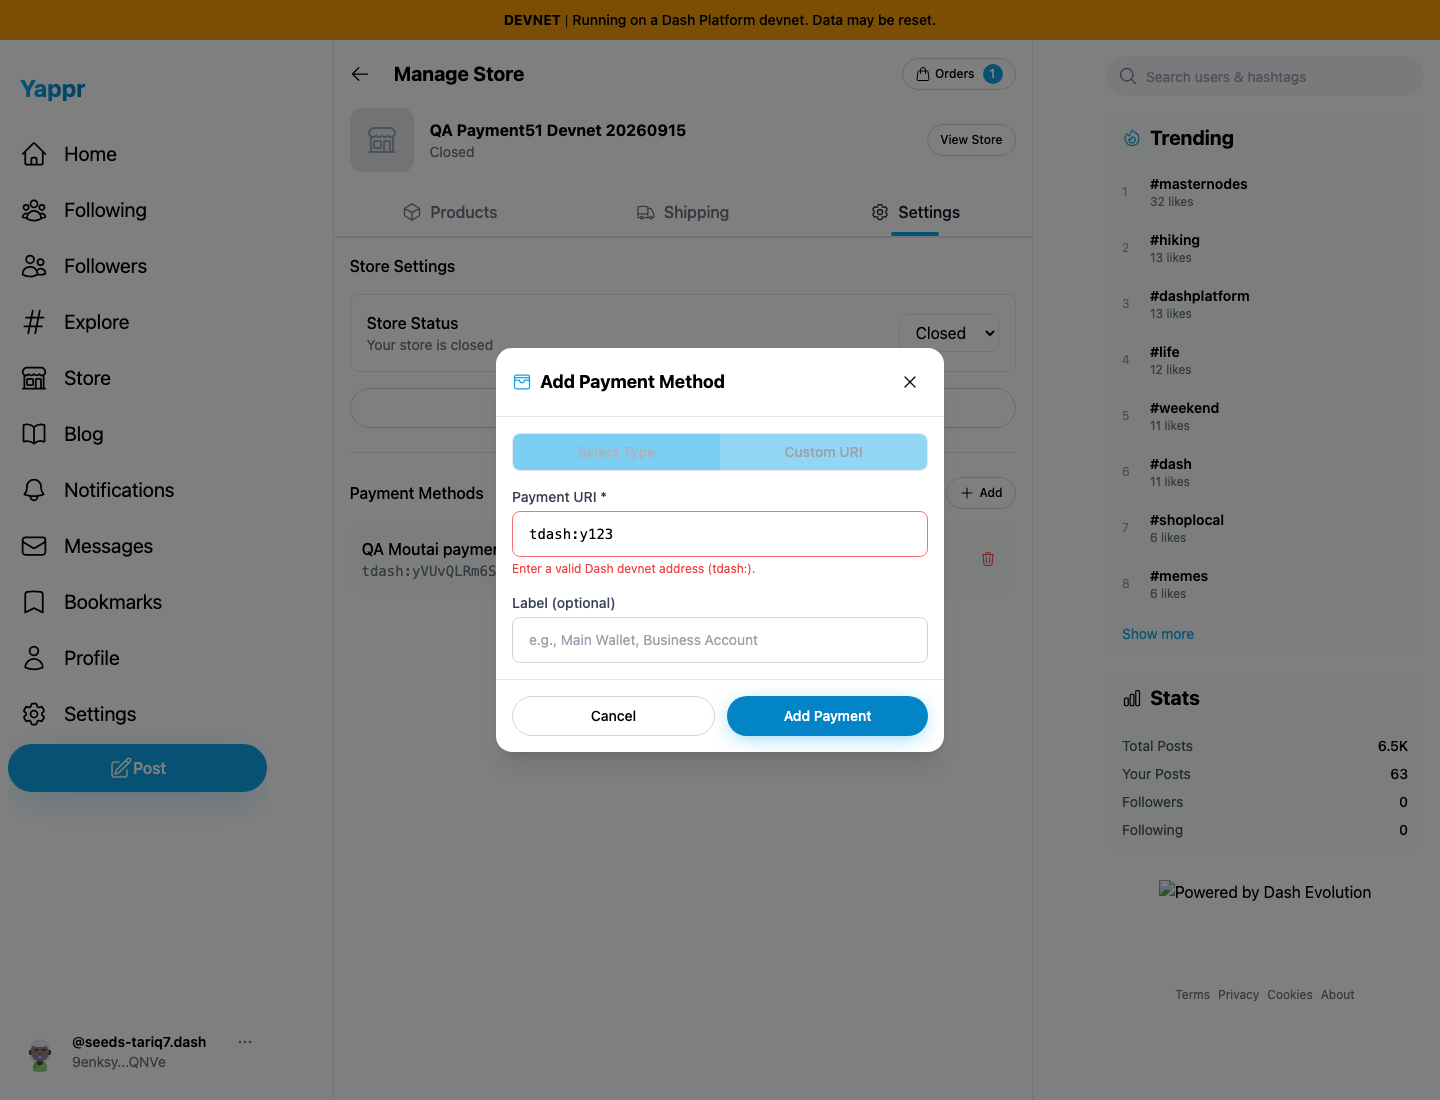
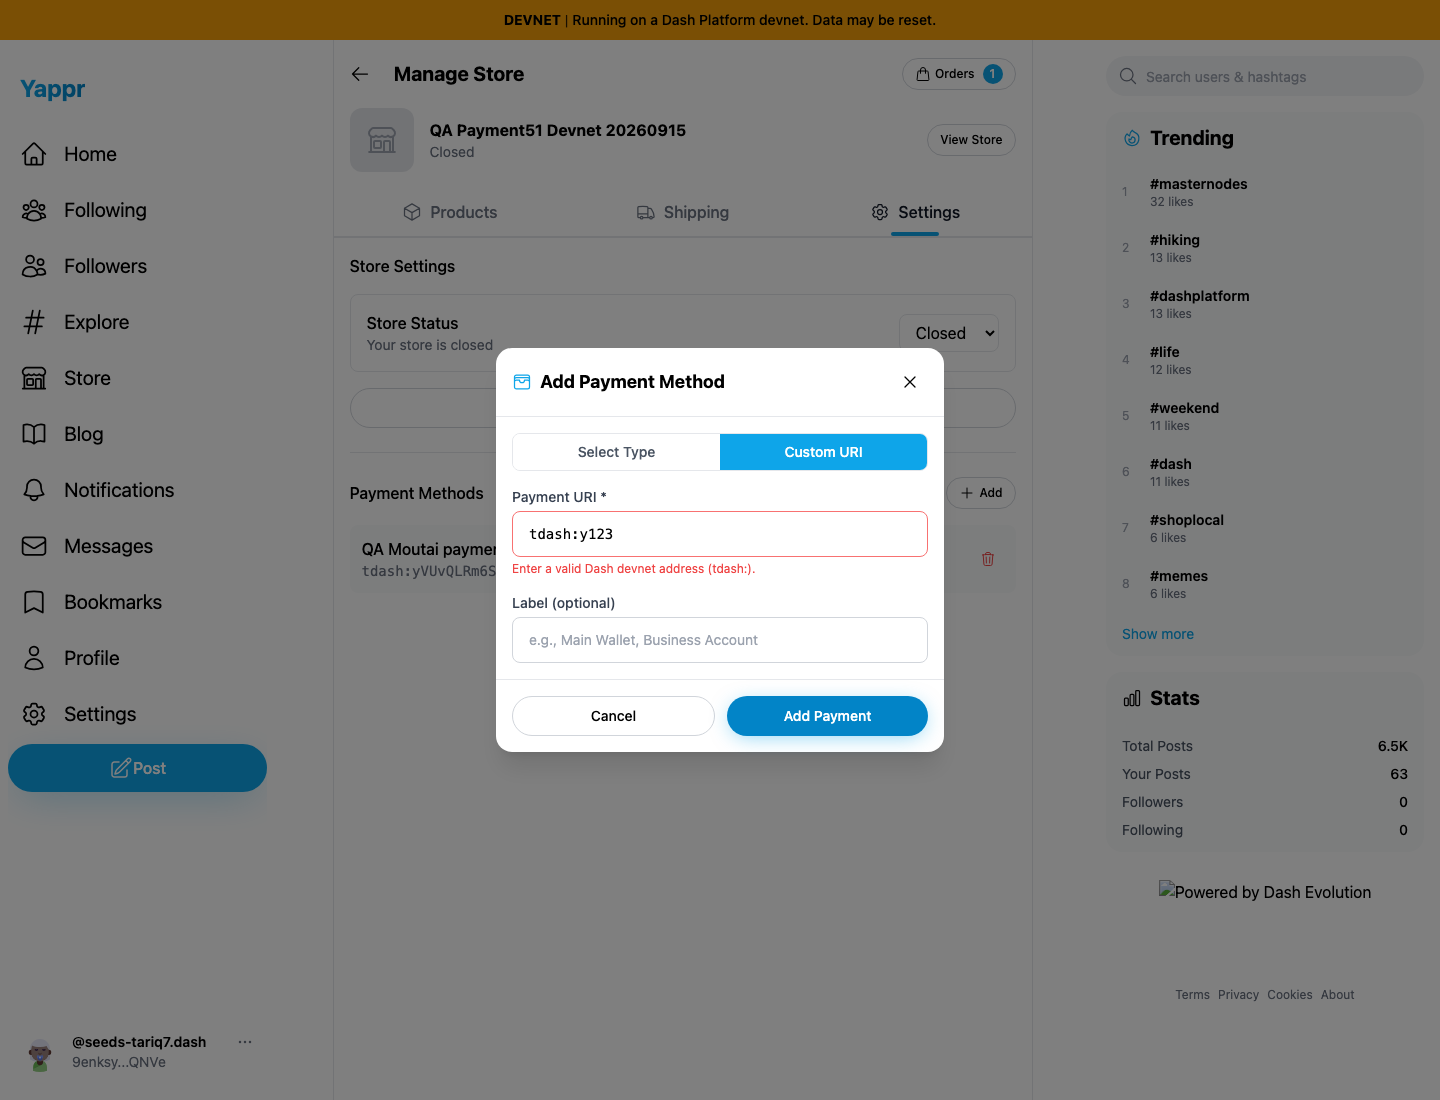
docs: capture settled payment dialog comparison

Changed region(s): [[0.3438, 0.3709, 0.6562, 0.4327]]

diff --git a/yappr/pr-payment-network-labels/README.md b/yappr/pr-payment-network-labels/README.md
@@ -32,3 +32,5 @@ Three automated deployment mapping tests cover devnet, testnet, and mainnet; mai
 The coin-value note also uses the shared network label. Its interpolation was verified in source and its label constant is covered by the deployment tests. **The coin-value note is not screenshot-covered:** clean staging's existing QA25 amount-calculation failure prevents that amount section from rendering for these DASH items. The earlier controlled USD fixture has no remaining products. The actual QR header comparison is still clean exact base/head; no PR432 integration is present. The unrelated Amount not calculated message remains visible and is not fixed by this PR.
 
 Local exact-head devnet build, lint, mapping/address tests, diff whitespace check, and independent review pass. These are label changes only; this evidence does not establish external wallet interoperability or a new payment settlement pass.
+
+The custom-URI comparison was recaptured after its mode-toggle color transition settled. These final files supersede the transient toggle-color captures from artifact6605106; no product state or code changed.
